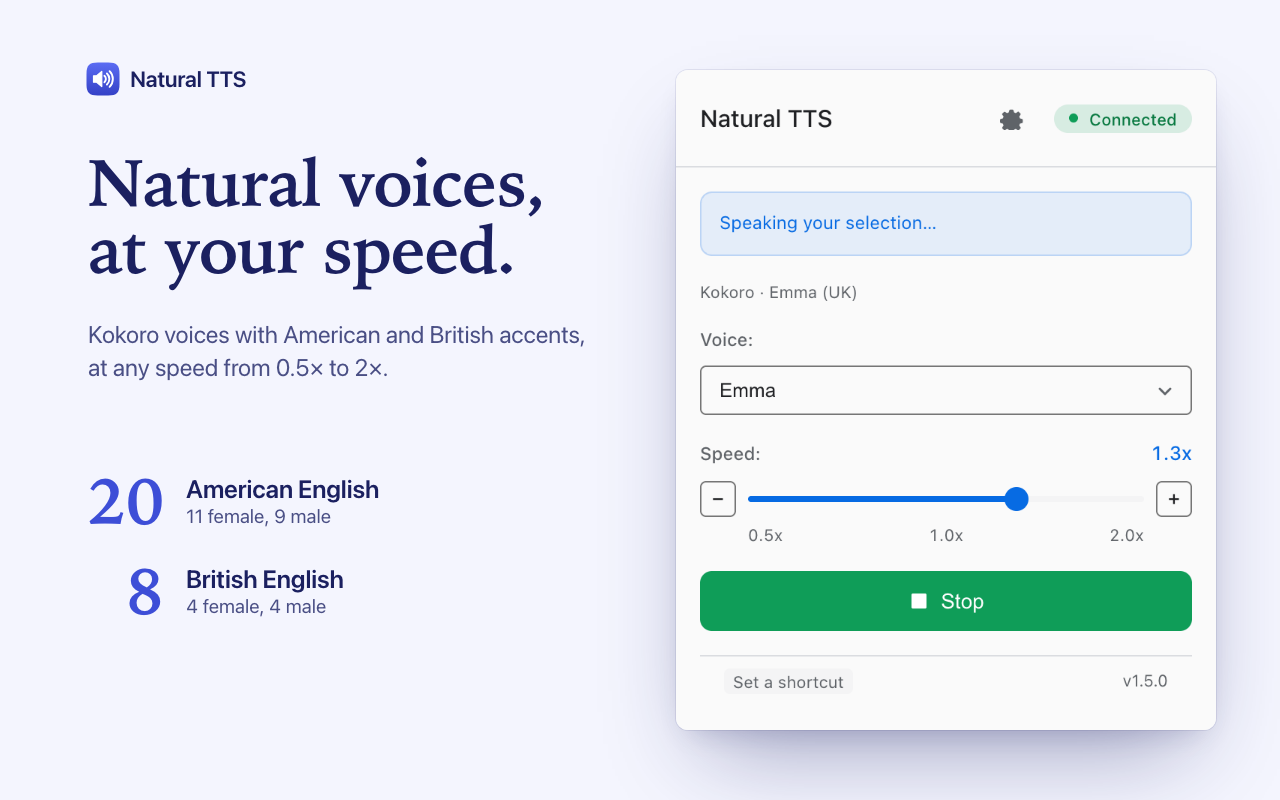
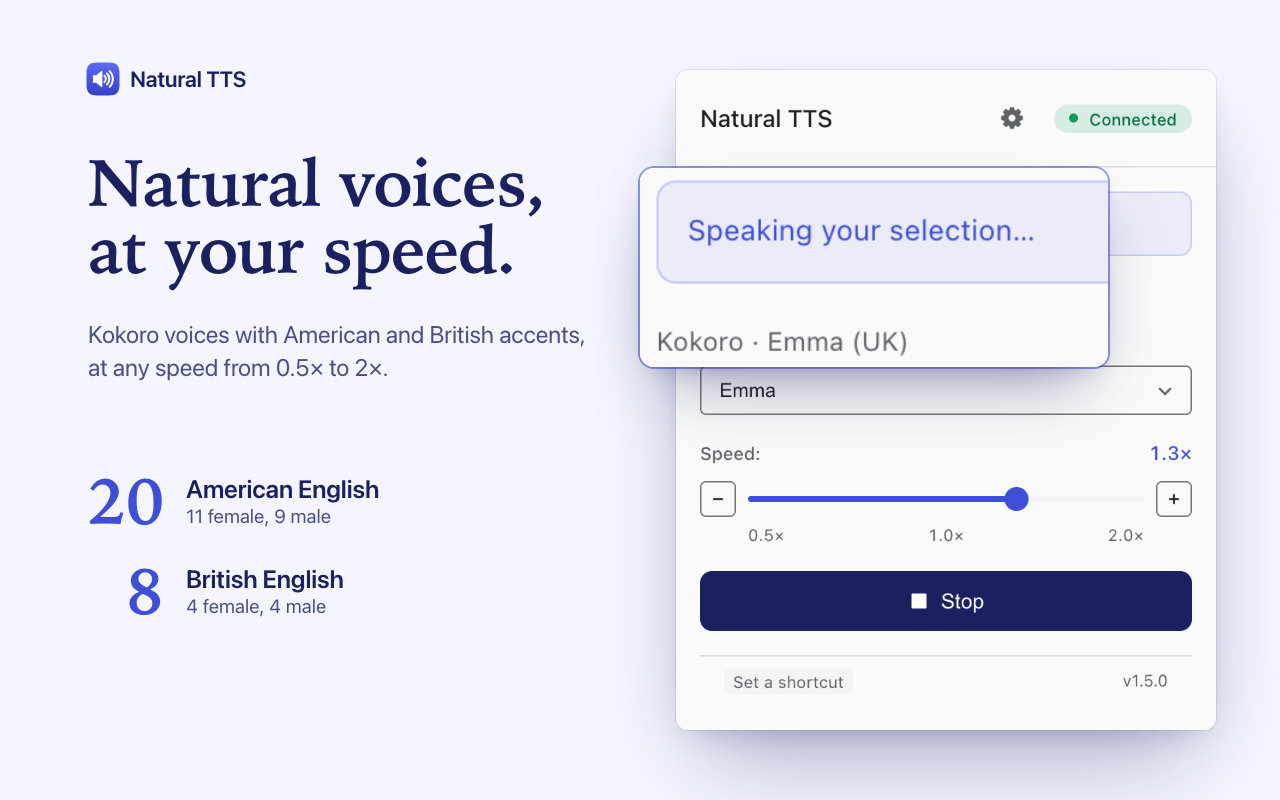
chore(media): re-shoot the popup and re-render the store images
Every popup capture is re-shot headless from the fixed build (brand
accent, deep-ink Stop, legible gear, refresh-icon Retry, && wrap, AA pill,
one typography) and every store image re-rendered from the new templates.
status.webp holds Checking 2.4 s and Connected 2.0 s (was 0.85 s and
2.55 s), disclosed in PROVENANCE, and is lossless, which removes a ghost of
"Loading voices..." that sat behind "Heart". The store README's defect
list is now a record of what was fixed, and names icon128.png as the
store icon (icon-512 is for the README).

diff --git a/assets/store/README.md b/assets/store/README.md
@@ -15,19 +15,19 @@ continue outward as a faint motif. Palette: `assets/brand/README.md`.
 | Store field | File | Size | Bytes | Headline / content | State |
 |---|---|---|---|---|---|
 | Screenshot 1 | `screenshot-1-right-click.png` | 1280×800 | — | **"Select text. Right-click. Listen."** The native context menu over the demo article, with "Speak selected text" highlighted | **Waiting for the GUI pass.** The native menu has no headless equivalent. The template is `cws/shot1.html`, and it needs `src/contextmenu-crop.png` (`scripts/capture/GUI_PASS.md`) |
-| Screenshot 2 | `screenshot-2-voices.png` | 1280×800 | 115,446 | **"Natural voices, at your speed."** Emma (UK) is speaking at 1.3×: "Speaking your selection…", "Kokoro · Emma (UK)", Stop. The counts (20 American English: 11 female, 9 male; 8 British English: 4 female, 4 male) are the live popup's four voice groups (`src/voice-groups.json`) | Done |
-| Screenshot 3 | `screenshot-3-on-device.png` | 1280×800 | 133,529 | **"Made on your Mac. Not in the cloud."** A "Your Mac" boundary around Chrome → 127.0.0.1 → Natural TTS helper (Kokoro-82M) → Apple GPU (MLX), beside the popup with Heart (US) speaking | Done |
-| Screenshot 4 | `screenshot-4-no-helper.png` | 1280×800 | 125,809 | **"Works without the helper, too."** The popup with no helper: Offline, "a system voice will read your selection", the Homebrew install hint, and "System voice" in the voice box (the top 330 CSS px of `assets/media/fallback.png`). This **replaces "PDFs too, with ligatures fixed"** (see below) | Done |
-| Screenshot 5 | `screenshot-5-setup.png` | 1280×800 | 121,758 | **"Install once. It's always ready."** The Homebrew one-liner as two commands (`brew install renchris/tap/natural-tts`, `brew services start natural-tts`), the connected popup (Heart, 1.0×), and the fallback line "Until then, a voice built into your Mac reads instead." | Done. The tap is the planned install path and is not published yet; publish it before the listing goes live |
-| Small promo tile | `small-tile-440x280.png` | 440×280 | 54,325 | No text. The icon's white glyph, with its arcs continuing outward | Done |
-| Marquee promo tile | `marquee-1400x560.png` | 1400×560 | 255,755 | The icon and the "Natural TTS" wordmark, the tagline "Private, on-device voices", and the popup (Emma speaking) rising out of the frame | Done |
-| Promo video thumbnail (YouTube) | `youtube-thumbnail-1280x720.png` | 1280×720 | 302,747 | **"Natural voices. On your Mac."** plus "Kokoro text-to-speech for Chrome." and the popup (Emma speaking). Checked legible at 320×180 | Done. The video itself waits for the GUI pass |
-| GitHub social preview (repo settings) | `../brand/social-preview.png` | 1280×640 | 266,932 | The icon and wordmark, "Private Kokoro voices for Mac", "Select text in Chrome and hear it read aloud. The speech is made on your Mac.", and the popup | Done. Uploading it is a repo setting, so it stays manual |
+| Screenshot 2 | `screenshot-2-voices.png` | 1280×800 | 136,883 | **"Natural voices, at your speed."** Emma (UK) is speaking at 1.3×: "Speaking your selection…", "Kokoro · Emma (UK)", Stop, with a lens (2.4× CSS) on the first two so they read at 640×400. The counts (20 American English: 11 female, 9 male; 8 British English: 4 female, 4 male) are the live popup's four voice groups (`src/voice-groups.json`) | Done |
+| Screenshot 3 | `screenshot-3-on-device.png` | 1280×800 | 154,981 | **"Made on your Mac. Not in the cloud."** A "Your Mac" boundary around Chrome → 127.0.0.1 → Natural TTS helper (Kokoro-82M) → Apple GPU (MLX), beside the popup with Heart (US) speaking and a lens on "Kokoro · Heart (US)" | Done |
+| Screenshot 4 | `screenshot-4-no-helper.png` | 1280×800 | 130,261 | **"Works without the helper, too."** The popup with no helper: Offline, "a system voice will read your selection" and the Homebrew install hint, shown at 1.9× CSS (the top of `assets/media/fallback.png`), the cut fading into the page. This **replaces "PDFs too, with ligatures fixed"** (see below) | Done |
+| Screenshot 5 | `screenshot-5-setup.png` | 1280×800 | 130,821 | **"Install once. It's always ready."** "Two Homebrew commands set up the helper and start it at login." over the two commands (`brew install renchris/tap/natural-tts`, `brew services start natural-tts`), the connected popup (Heart, 1.0×) with a lens on its Connected pill, and the fallback line "Until then, a voice built into your Mac reads instead." | Done. The tap is the planned install path and is not published yet; publish it before the listing goes live |
+| Small promo tile | `small-tile-440x280.png` | 440×280 | 60,516 | The icon's white glyph, its arcs continuing outward, and the "Natural TTS" wordmark, so the tile names the product in a carousel | Done |
+| Marquee promo tile | `marquee-1400x560.png` | 1400×560 | 256,554 | The icon (with a thin white ring, so it separates from the background) and the "Natural TTS" wordmark, the tagline "Private, on-device voices", and the popup (Emma speaking) rising out of the frame | Done |
+| Promo video thumbnail (YouTube) | `youtube-thumbnail-1280x720.png` | 1280×720 | 303,285 | **"Natural voices. On your Mac."** plus "Kokoro text-to-speech for Chrome." and the popup (Emma speaking). Checked legible at 320×180 | Done. The video itself waits for the GUI pass |
+| GitHub social preview (repo settings) | `../brand/social-preview.png` | 1280×640 | 267,653 | The icon and wordmark, "Private Kokoro voices for Mac", "Select text in Chrome and hear it read aloud. The speech is made on your Mac.", and the popup | Done. Uploading it is a repo setting, so it stays manual |
 
 All files are 24-bit sRGB PNGs with no alpha and no metadata chunks. They are written with zlib level 9 and adaptive
 filtering; this machine has no oxipng or pngquant, and lossy quantisation would soften the popup text. Square corners
-and full bleed, as the store asks. The listing icon is `assets/brand/icon-512.png`, and `chrome-extension/public/icons/icon128.png` is the
-128 px store icon.
+and full bleed, as the store asks. The Chrome Web Store icon is `chrome-extension/public/icons/icon128.png` (128×128,
+`docs/publishing/CHROME_WEB_STORE.md` §2.2); `assets/brand/icon-512.png` is for the README and other listings.
 
 **Recommended upload order:** the store shows screenshot 1 first. Until the GUI pass fills it, upload 2, 3, 5 and 4 in
 that order. That leads with the voice, then privacy, then setup, then the fallback. Put the right-click shot first once
@@ -53,17 +53,16 @@ The check was run headless on 2026-09-24, with CfT 153.0.8010.12 and the extensi
 Screenshot 4 therefore shows the system-voice fallback (OD-2), a behaviour the image *can* prove. Screenshot 2 covers
 the "28 voices, American and British" story.
 
-## Known product defects visible in these images
+## Product defects these images used to show (fixed 2026-09-24)
 
-These are in `chrome-extension/` and were left as they are, because the images must show the real UI. Fix them, then
-re-run the two commands below, which rebuild every image here byte for byte from the new captures:
+The first render showed three popup defects. They were fixed in `chrome-extension/`, and every image here was then
+re-captured and re-rendered with the commands below:
 
-1. **Screenshot 4:** the install command wraps between the two ampersands ("…natural-tts &" / "& brew services…"),
-   because `.fallback-notice code` uses `word-break: break-all`.
-2. **Every popup** uses a `#0B6BE0`-like blue for the Speak button, the slider and the speed value, not the brand accent
-   `#3D4ED7` that `assets/brand/README.md` says it shares.
-3. The Retry Connection button has no `.secondary-button` style. It is below the crop in screenshot 4, but visible in
-   `assets/media/fallback.png`.
+1. The install command wrapped between the two ampersands ("…natural-tts &" / "& brew services…"), because
+   `.fallback-notice code` used `word-break: break-all`. It now wraps only after `&&`.
+2. Every popup rendered `#076BE3` (`oklch(0.55 0.20 258)` from an `@supports` override in `variables.css`) instead of
+   the brand accent `#3D4ED7`. The override is gone, so the popup and the icon match.
+3. The Retry connection button had no `.secondary-button` style. It is now an outline button with a refresh icon.
 
 ## Regenerate
 
@@ -76,6 +75,7 @@ HEADLESS=1 scripts/capture/launch.sh /tmp/ntts-cap 8250
 scripts/capture/cws/capture-inputs.sh /tmp/ntts-cap assets/store/src 8250   # popup-*-speaking.png, voice-groups.json
 # assets/media/popup.png and fallback.png: scripts/capture/README.md, "Headless capture"
 # 2. Every image in this directory, plus assets/brand/social-preview.png, with 640x400 proofs in /tmp/ntts-cws-proofs
+#    (pass a third argument for a private proof directory when another session may render at the same time)
 scripts/capture/cws/render.sh
 ```
 

diff --git a/assets/media/PROVENANCE.md b/assets/media/PROVENANCE.md
@@ -77,13 +77,21 @@ with `--load-extension`, light colour scheme, device scale factor 2. The popup p
 bubble; that one needs a display (GUI pass).
 
 Every request the capture browser made to 127.0.0.1 went through `scripts/capture/port-guard.mjs`, which refused
-port 8249 (an older helper runs there on this machine) and logged each request with the page that sent it.
+port 8249 (an older helper runs there on this machine) and logged each request with the page that sent it. Since the
+re-shoot below, the guard refuses every discovery port 8249-8260 except the capture helper's 8250 (a sibling
+session's helper was listening on 8251).
+
+**Re-shot 2026-09-24 (afternoon)** after the popup fixes landed: the brand indigo accent (the `oklch()` override that
+rendered `#076BE3` is gone), the deep-ink Stop button, the legible settings gear, the refresh icon and outline style
+on Retry, the install command that wraps only after `&&`, the AA Connected pill, and `…`, `×` and sentence case in
+every label. `popup.png`, `fallback.png`, `status.webp` and both `assets/store/src/popup-*-speaking.png` are from that
+build (helper 1.5.0 built from `6b881a1`), with the same commands.
 
 | File | Size | What is on screen, and how it was made |
 |---|---|---|
-| `popup.png` | 720×700 (360×350 CSS @2x) | Connected to the real helper 1.5.0 on 127.0.0.1:8250 (launched with `--port/--python/--worker`), Heart (`af_heart`) selected, 1.0×. Re-shot independently and byte-identical to the first take |
-| `fallback.png` | 720×1124 (360×562 CSS @2x) | The same popup with no helper on 8250 and 8249 refused (1 refused request in the guard log): "Offline" pill, the system-voice line, the install hint with the Homebrew command (the tap is the planned install path; it is not published yet), "System voice" in the voice box |
-| `status.webp` | 720×700, 3.6 s loop | The popup opening against the real helper: "Checking" → "Connected", the voice box going from "Loading voices…" to "Heart". **One timing change:** the guard held each of the popup's two `/health` requests for 600 ms (`--hold-health 8250:600`), because the real "Checking" state lasts a few milliseconds. Responses were not altered. Frames are full-resolution `Page.captureScreenshot` grabs (~20/s) at their real times; the last frame is held 2.5 s. Encoded `img2webp -near_lossless 40` |
+| `popup.png` | 720×700 (360×350 CSS @2x) | Connected to the real helper 1.5.0 on 127.0.0.1:8250 (launched with `--port/--python/--worker`), Heart (`af_heart`) selected, 1.0× |
+| `fallback.png` | 720×1178 (360×589 CSS @2x) | The same popup with no helper on 8250 and 8249, 8251-8260 refused (all eleven logged as refused): "Offline" pill, the system-voice line, the install hint with the Homebrew command (the tap is the planned install path; it is not published yet), "System voice" in the voice box |
+| `status.webp` | 720×700, 4.5 s loop | The popup opening against the real helper: "Checking" → "Connected", the voice box going from "Loading voices…" to "Heart". **One timing change:** the guard held each of the popup's two `/health` requests for 600 ms (`--hold-health 8250:600`), because the real "Checking" state lasts a few milliseconds. Responses were not altered. Frames are full-resolution `Page.captureScreenshot` grabs (~20/s) at their real times (Checking 0.37-1.53 s, Connected settled at 1.83 s). **Two more timing changes, for legibility at README scroll speed:** the first Checking frame is held 1.2 s longer (`--lead 1200`) and the last Connected frame 1.8 s (`--hold 1800`), so Checking is on screen 2.4 s and Connected 2.0 s. Encoded lossless (`img2webp -m 6`): the earlier near-lossless encode left a faint ghost of "Loading voices…" behind "Heart" |
 | `helper.webp` | 1182×870, 26.1 s loop | VHS 0.11.0 recording of a real shell: the helper 1.5.0 starting on 8250 to "ready" (real time, including the ~6 s warm-up), `curl /health`, a real `/speak` (af_heart, "Hello from a private Kokoro voice.") writing `hello.wav`, and `afinfo` on the result. The helper's paths are shown through `/tmp/natural-tts/` symlinks (`scripts/capture/tapes/env.sh`) so no home path is on screen; its log prefix (timestamp, level, label) is trimmed by the `sed` visible in the command. Off camera: moving the helper to the background (Ctrl+Z, `bg`, `clear`) and stopping it at the end. `gif2webp -m 6 -min_size` (lossless) |
 | `gate.webp` | 1280×824, 11.8 s loop | VHS recording of a real `bash scripts/verify-all.sh` run from this tree (`PASS: all 48 checks`, 267 s of real recording cut to 77 distinct screens), sped up by `scripts/capture/tapes/retime.mjs`, which only shortens stretches where the screen does not change (each capped at 120 ms; the final table is held 6 s). Lossless `img2webp -min_size` |
 
@@ -95,7 +103,8 @@ and preview (they need the native context menu). Both are in `scripts/capture/GU
 
 Web Store screenshots 2–5, the small tile, the marquee, the YouTube thumbnail and `assets/brand/social-preview.png`
 frame real popup captures. Two captures are new: `assets/store/src/popup-emma-speaking.png` (Emma (UK), 1.3×) and
-`popup-heart-speaking.png` (Heart (US), 1.0×), each made while the real helper 1.5.0 on 127.0.0.1:8250 was speaking.
+`popup-heart-speaking.png` (Heart (US), 1.0×), each made while the real helper 1.5.0 on 127.0.0.1:8250 was speaking
+(re-shot with the fixed popup, see above).
 The speech was started by the service worker. It sent its offscreen document the same `SPEAK_IN_OFFSCREEN` message the
 right-click handler sends, with this article's paragraph 2. The native menu click was skipped, because it needs a
 display. The helper log shows each request (12.07 s of Emma audio at 1.3× in 0.75 s). The guard logged 37 requests,

diff --git a/scripts/capture/GUI_PASS.md b/scripts/capture/GUI_PASS.md
@@ -5,9 +5,9 @@ may take over the operator's screen). Everything that can be captured through CD
 
 | Asset | State |
 |---|---|
-| `assets/media/popup.png` | done, headless (720×700, 2x, Connected, Heart, 1.0x) |
-| `assets/media/fallback.png` | done, headless (720×1124, 2x, helper stopped, system-voice line + install hint) |
-| `assets/media/status.webp` | done, headless (720×700, Checking → Connected loop) |
+| `assets/media/popup.png` | done, headless (720×700, 2x, Connected, Heart, 1.0×) |
+| `assets/media/fallback.png` | done, headless (720×1178, 2x, helper stopped, system-voice line + install hint) |
+| `assets/media/status.webp` | done, headless (720×700, 4.5 s Checking → Connected loop) |
 | `assets/media/helper.webp`, `assets/media/gate.webp` | done, VHS (renders headlessly) |
 | `assets/store/screenshot-{2,3,4,5}-*.png`, `small-tile-440x280.png`, `marquee-1400x560.png`, `youtube-thumbnail-1280x720.png`, `assets/brand/social-preview.png` | done, headless (capture step 3): `cws/capture-inputs.sh` + `cws/render.sh`, listed in `assets/store/README.md` |
 
